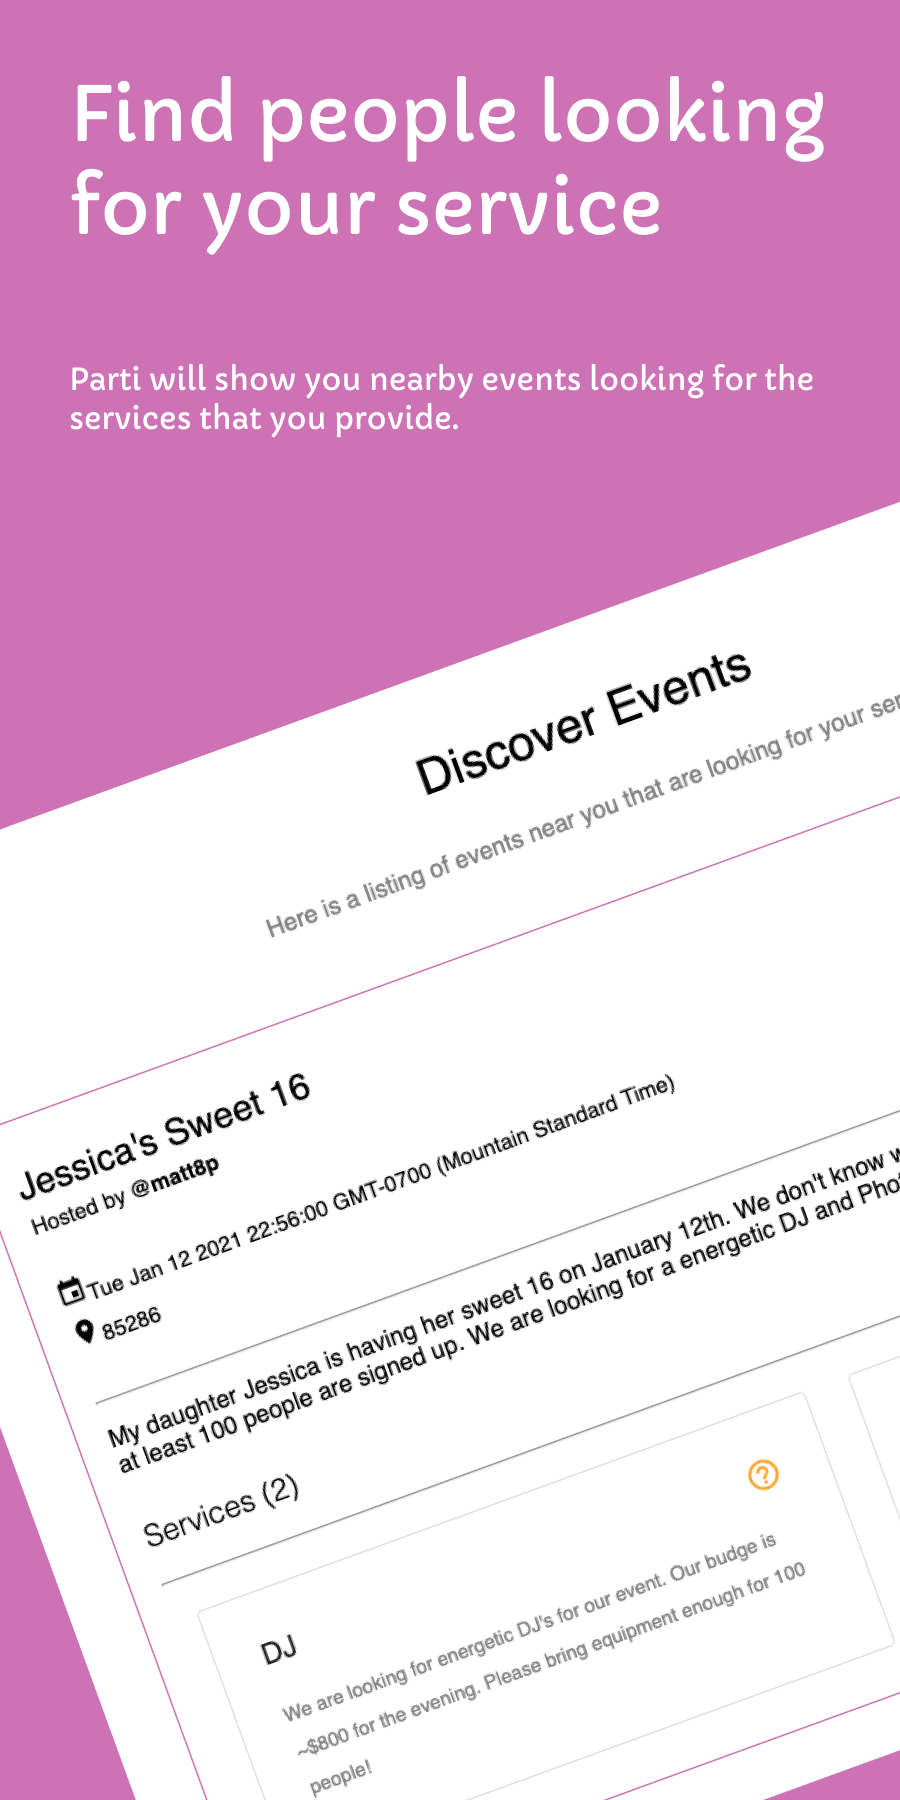
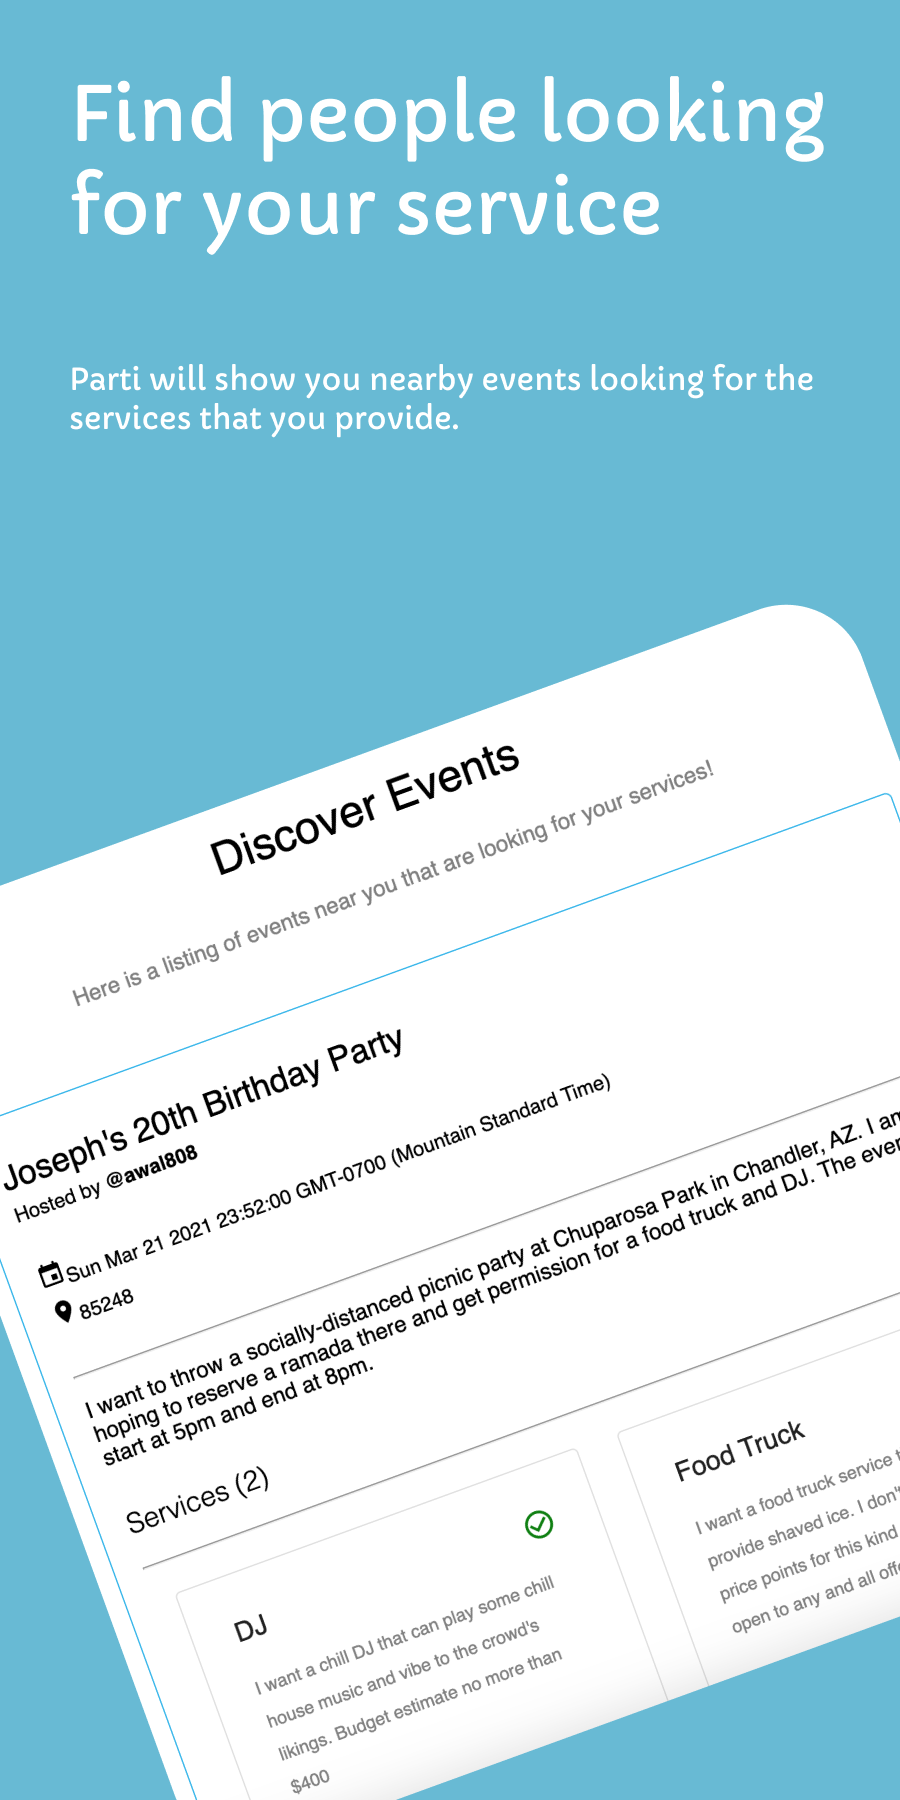
Landing Page Modification

diff --git a/src/App.js b/src/App.js
@@ -67,13 +67,13 @@ class App extends React.Component
       <ThemeProvider theme={theme}>
       <Provider store={store}>
         <Router>
-        <Navbar />
+        <NavbarBeta />
           <div className="container">
             <Switch>
-              <Route exact path="/" component={Home} />
-              {/* <Route exact path="/" component={Beta} /> */}
+              {/* <Route exact path="/" component={Home} /> */}
+              <Route exact path="/" component={Beta} />
               
-              <Route exact path="/about" component={About} />
+              {/* <Route exact path="/about" component={About} />
               <Route exact path="/feedback" component={Feedback} />
               <Route exact path="/user/:userhandle" component={User} />
               <ProtectedClientRoute exact path="/events/new" component={NewEvent} />
@@ -85,7 +85,7 @@ class App extends React.Component
               <ProtectedServiceRoute exact path="/discover-events" component={DiscoverEvents} />
               <ProtectedServiceRoute exact path="/contracts/new" component={NewContract} />
               <AuthRoute exact path="/signup" component={SignUp} />
-              <AuthRoute exact path="/login" component={Login} />
+              <AuthRoute exact path="/login" component={Login} /> */}
 
               <Route exact path="/404" component={ErrorNotFound} />
               <Redirect to="/404"></Redirect>

diff --git a/src/theme.js b/src/theme.js
@@ -4,10 +4,10 @@ import green from '@material-ui/core/colors/green';
 const theme = createMuiTheme({
     palette: {
       primary: {
-        main: '#31B6EC',
+        main: '#53befc',
       },
       secondary: {
-        main: green[500],
+        main: '#d14d96',
       },
     },
   });

diff --git a/src/pages/about/about-nobio.js b/src/pages/about/about-nobio.js
@@ -26,7 +26,7 @@ const useStyles = makeStyles((theme) => ({
   aboutContainer: {
       width: 300,
       borderRadius: 5,
-      border: '1px solid #cd72b4',
+      border: '1px solid #31B6EC',
       padding: 15,
   }
 }));

diff --git a/src/components/navbar-beta.js b/src/components/navbar-beta.js
@@ -93,7 +93,7 @@ const styles = theme => ({
   },
   navbar: {
     color: 'black',
-    backgroundColor: '#f8f1f7',
+    backgroundColor: '#FFFFFF',
     boxShadow: 'None',
     padding: theme.spacing(1)
   },
